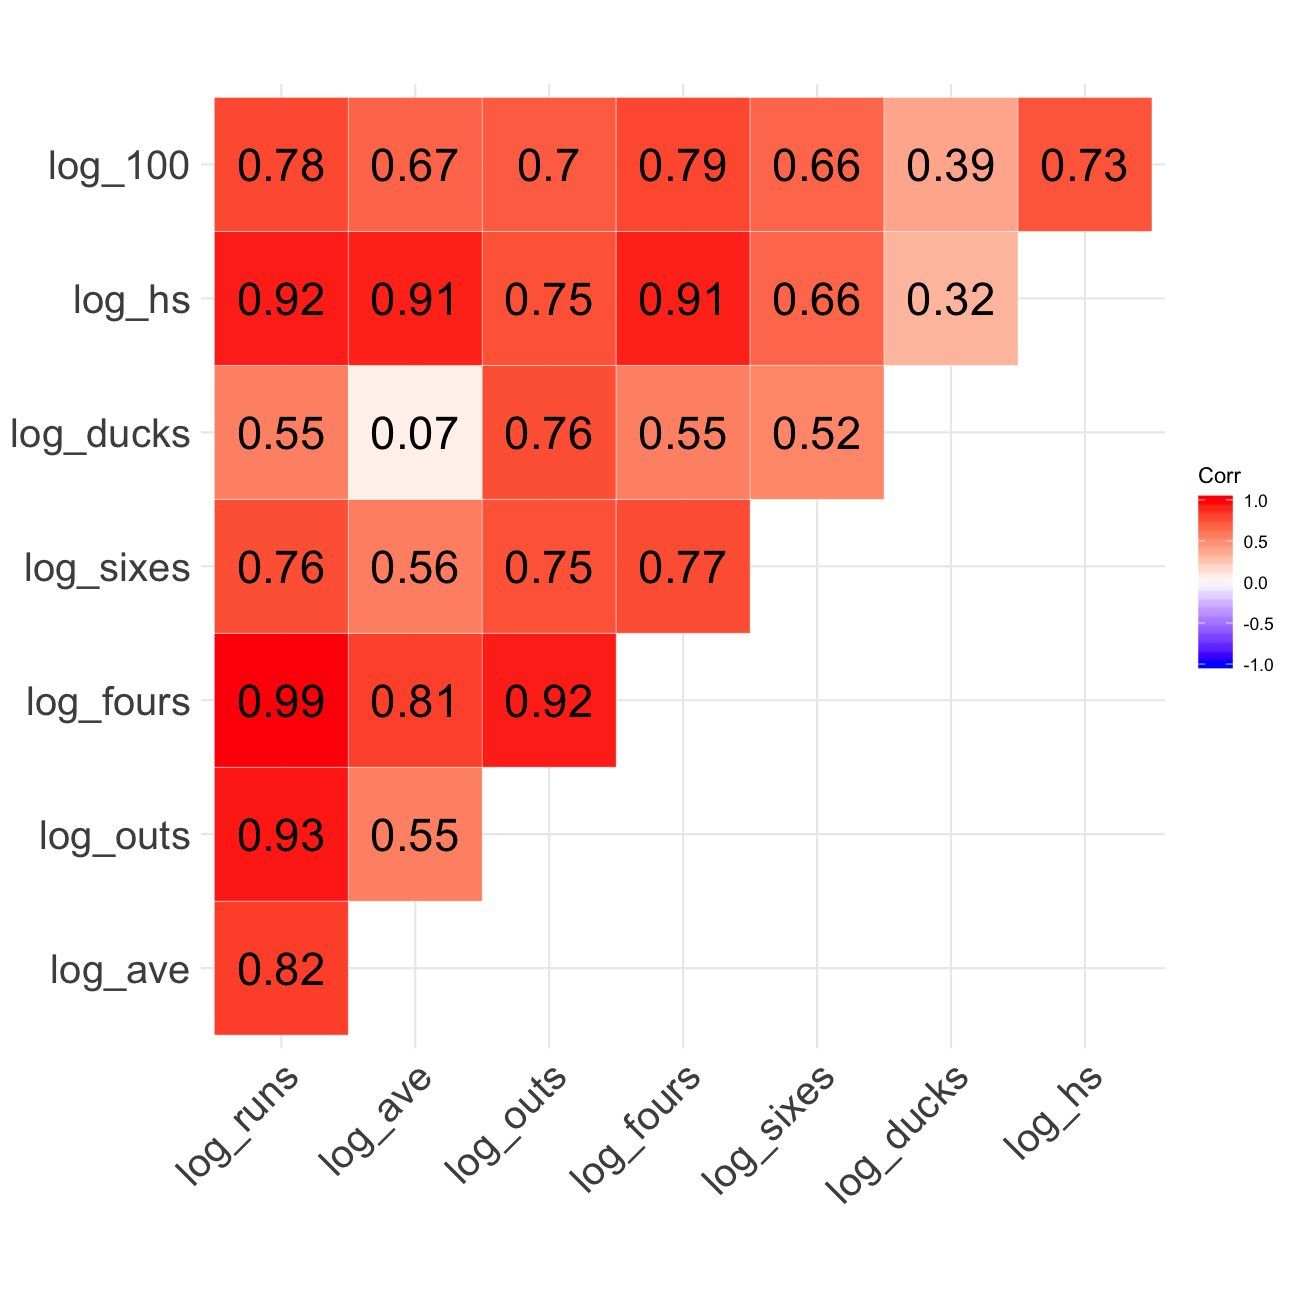
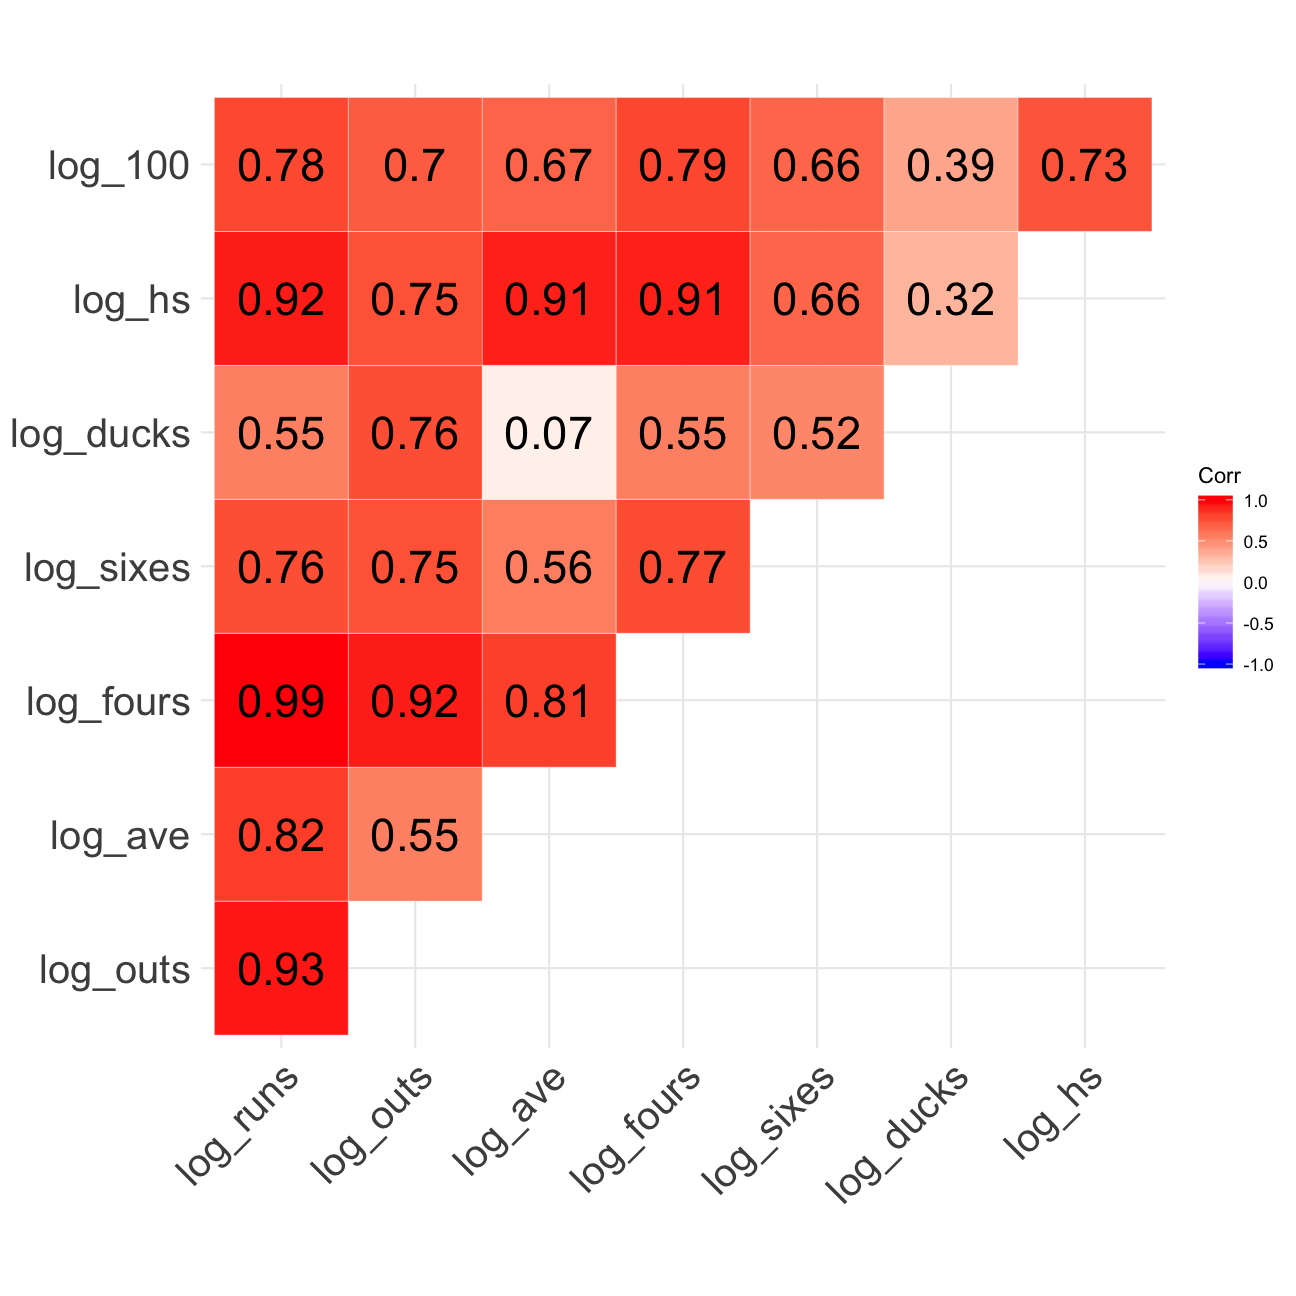
upd slides before mcvis talk at IBSAR

diff --git a/mcvis_talk/index.html b/mcvis_talk/index.html
@@ -90,8 +90,8 @@ glimpse(X)
 ## Observations: 810
 ## Variables: 8
 ## $ log_runs  &lt;dbl&gt; 2.20, 1.56, 2.84, 2.68, 2.01, 3.21, 2.03, 2.65, 3.13, 2.68,…
-## $ log_ave   &lt;dbl&gt; 1.160, 0.778, 1.430, 1.360, 0.778, 1.600, 1.030, 1.160, 1.4…
 ## $ log_outs  &lt;dbl&gt; 1.040, 0.778, 1.410, 1.320, 1.230, 1.610, 1.000, 1.490, 1.7…
+## $ log_ave   &lt;dbl&gt; 1.160, 0.778, 1.430, 1.360, 0.778, 1.600, 1.030, 1.160, 1.4…
 ## $ log_fours &lt;dbl&gt; 1.280, 0.301, 1.830, 1.830, 1.040, 2.160, 1.110, 1.650, 2.0…
 ## $ log_sixes &lt;dbl&gt; 0.000, 0.000, 0.477, 0.845, 0.301, 0.602, 0.000, 0.477, 0.6…
 ## $ log_ducks &lt;dbl&gt; 0.699, 0.477, 0.602, 0.602, 1.040, 0.778, 0.602, 0.845, 0.6…
@@ -136,8 +136,8 @@ broom::tidy(M1)
 ##   &lt;chr&gt;          &lt;dbl&gt;     &lt;dbl&gt;     &lt;dbl&gt;    &lt;dbl&gt;
 ## 1 (Intercept) -0.365      0.0902   -4.05   5.67e- 5
 ## 2 log_runs    -1.92       1.95     -0.984  3.25e- 1
-## 3 log_ave      1.84       1.96      0.943  3.46e- 1
-## 4 log_outs     1.61       1.96      0.826  4.09e- 1
+## 3 log_outs     1.61       1.96      0.826  4.09e- 1
+## 4 log_ave      1.84       1.96      0.943  3.46e- 1
 ## 5 log_fours    0.647      0.0969    6.68   4.58e-11
 ## 6 log_sixes    0.131      0.0264    4.96   8.57e- 7
 ## 7 log_ducks    0.00357    0.0497    0.0718 9.43e- 1
@@ -196,18 +196,6 @@ broom::tidy(M1)
 &lt;td style=" padding:0.2cm; text-align:left; vertical-align:top; text-align:center;  0"&gt;0.491&lt;/td&gt;
 &lt;/tr&gt;
 &lt;tr&gt;
-&lt;td style=" padding:0.2cm; text-align:left; vertical-align:top; text-align:left; "&gt;log_ave&lt;/td&gt;
-&lt;td style=" padding:0.2cm; text-align:left; vertical-align:top; text-align:center;  "&gt;1.84&lt;/td&gt;
-&lt;td style=" padding:0.2cm; text-align:left; vertical-align:top; text-align:center;  "&gt;1.96&lt;/td&gt;
-&lt;td style=" padding:0.2cm; text-align:left; vertical-align:top; text-align:center;  "&gt;0.346&lt;/td&gt;
-&lt;td style=" padding:0.2cm; text-align:left; vertical-align:top; text-align:center;  "&gt;-0.08&lt;/td&gt;
-&lt;td style=" padding:0.2cm; text-align:left; vertical-align:top; text-align:center;  "&gt;0.12&lt;/td&gt;
-&lt;td style=" padding:0.2cm; text-align:left; vertical-align:top; text-align:center;  col7"&gt;0.530&lt;/td&gt;
-&lt;td style=" padding:0.2cm; text-align:left; vertical-align:top; text-align:center;  col8"&gt;&lt;/td&gt;
-&lt;td style=" padding:0.2cm; text-align:left; vertical-align:top; text-align:center;  col9"&gt;&lt;/td&gt;
-&lt;td style=" padding:0.2cm; text-align:left; vertical-align:top; text-align:center;  0"&gt;&lt;/td&gt;
-&lt;/tr&gt;
-&lt;tr&gt;
 &lt;td style=" padding:0.2cm; text-align:left; vertical-align:top; text-align:left; "&gt;log_outs&lt;/td&gt;
 &lt;td style=" padding:0.2cm; text-align:left; vertical-align:top; text-align:center;  "&gt;1.61&lt;/td&gt;
 &lt;td style=" padding:0.2cm; text-align:left; vertical-align:top; text-align:center;  "&gt;1.96&lt;/td&gt;
@@ -218,6 +206,18 @@ broom::tidy(M1)
 &lt;td style=" padding:0.2cm; text-align:left; vertical-align:top; text-align:center;  col8"&gt;-0.23&lt;/td&gt;
 &lt;td style=" padding:0.2cm; text-align:left; vertical-align:top; text-align:center;  col9"&gt;0.10&lt;/td&gt;
 &lt;td style=" padding:0.2cm; text-align:left; vertical-align:top; text-align:center;  0"&gt;&lt;strong&gt;0.019&lt;/strong&gt;&lt;/td&gt;
+&lt;/tr&gt;
+&lt;tr&gt;
+&lt;td style=" padding:0.2cm; text-align:left; vertical-align:top; text-align:left; "&gt;log_ave&lt;/td&gt;
+&lt;td style=" padding:0.2cm; text-align:left; vertical-align:top; text-align:center;  "&gt;1.84&lt;/td&gt;
+&lt;td style=" padding:0.2cm; text-align:left; vertical-align:top; text-align:center;  "&gt;1.96&lt;/td&gt;
+&lt;td style=" padding:0.2cm; text-align:left; vertical-align:top; text-align:center;  "&gt;0.346&lt;/td&gt;
+&lt;td style=" padding:0.2cm; text-align:left; vertical-align:top; text-align:center;  "&gt;-0.08&lt;/td&gt;
+&lt;td style=" padding:0.2cm; text-align:left; vertical-align:top; text-align:center;  "&gt;0.12&lt;/td&gt;
+&lt;td style=" padding:0.2cm; text-align:left; vertical-align:top; text-align:center;  col7"&gt;0.530&lt;/td&gt;
+&lt;td style=" padding:0.2cm; text-align:left; vertical-align:top; text-align:center;  col8"&gt;&lt;/td&gt;
+&lt;td style=" padding:0.2cm; text-align:left; vertical-align:top; text-align:center;  col9"&gt;&lt;/td&gt;
+&lt;td style=" padding:0.2cm; text-align:left; vertical-align:top; text-align:center;  0"&gt;&lt;/td&gt;
 &lt;/tr&gt;
 &lt;tr&gt;
 &lt;td style=" padding:0.2cm; text-align:left; vertical-align:top; text-align:left; "&gt;log_fours&lt;/td&gt;
@@ -324,8 +324,8 @@ M1 %&gt;% car::vif() %&gt;% round(2)
 ```
 
 ```
-##  log_runs   log_ave  log_outs log_fours log_sixes log_ducks    log_hs 
-##  23995.96   4666.15  11410.15     55.60      2.53      3.99     12.17
+##  log_runs  log_outs   log_ave log_fours log_sixes log_ducks    log_hs 
+##  23995.96  11410.15   4666.15     55.60      2.53      3.99     12.17
 ```
 
 + Using a threshold of 5 as suggested by Sheather (2009), 5 MC-causing variables are identified.
@@ -391,8 +391,8 @@ solve(eigen$u * eigen$u)[1:2,1:5]
 
 ```
 ##               [,1]         [,2]         [,3]          [,4]         [,5]
-## [1,] -3.761500e+14 1.070173e+15 3.546325e+14 -7.096193e+13 1.581491e+14
-## [2,] -1.113496e+13 3.167974e+13 1.049799e+13 -2.100647e+12 4.681601e+12
+## [1,] -3.549883e+14 3.346813e+14 1.009966e+15 -6.696969e+13 1.492518e+14
+## [2,] -1.050852e+13 9.907388e+12 2.989748e+13 -1.982468e+12 4.418220e+12
 ```
 
 
@@ -486,8 +486,8 @@ round(mcvis_result$MC[p-1,], 2)
 ```
 
 ```
-##  log_runs   log_ave  log_outs log_fours log_sixes log_ducks    log_hs 
-##      0.69      0.14      0.16      0.00      0.00      0.00      0.00
+##  log_runs  log_outs   log_ave log_fours log_sixes log_ducks    log_hs 
+##      0.69      0.16      0.14      0.00      0.00      0.00      0.00
 ```
 
 ---
